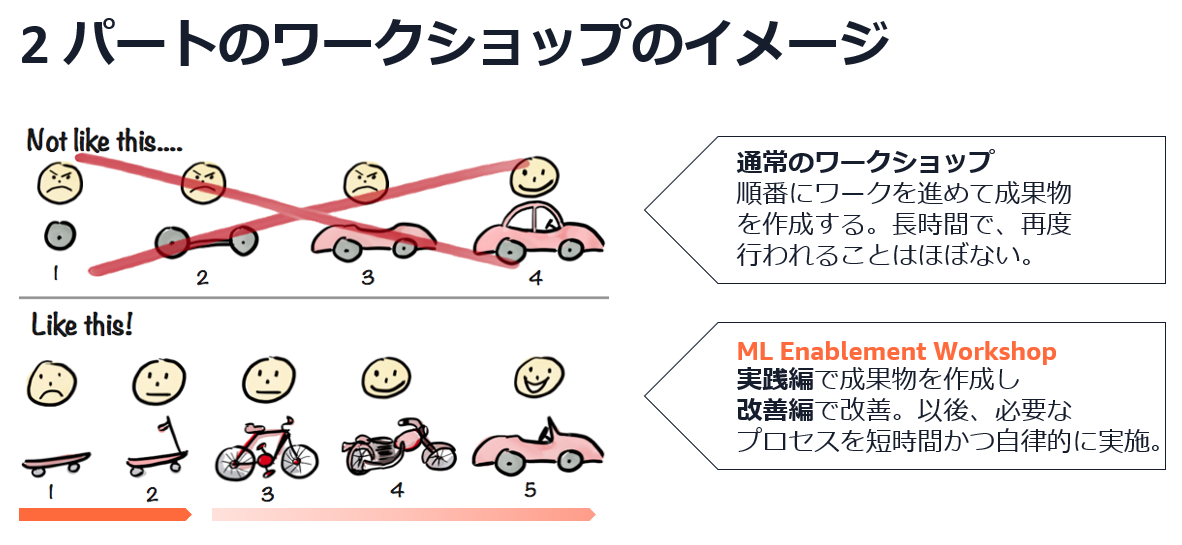
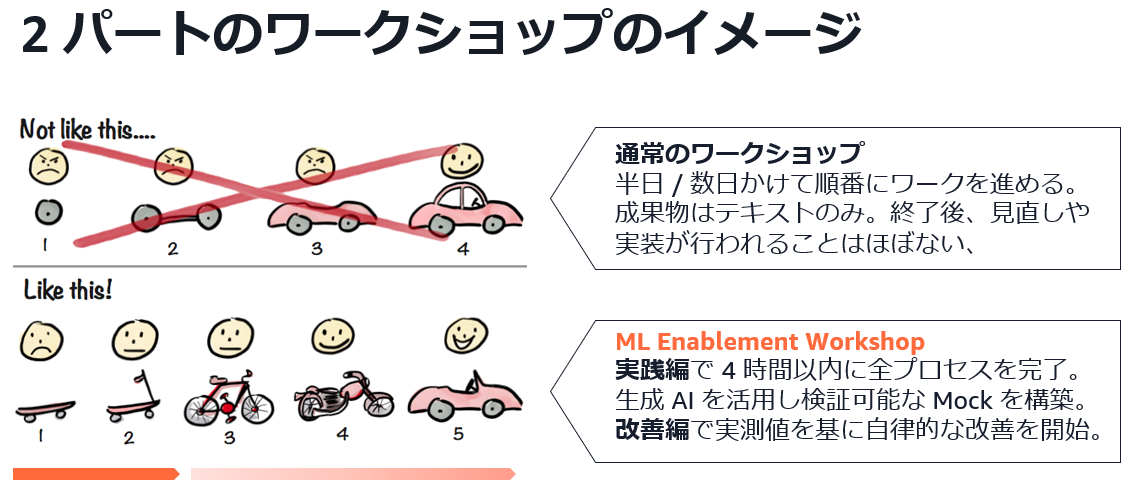
update Day0 for v3

Changed region(s): [[0.0, 0.2134, 1.0, 0.9756], [0.0, 0.0, 0.7757, 0.122], [0.9619, 0.6402, 0.9929, 0.6707]]

diff --git a/docs/organizer/day0.md b/docs/organizer/day0.md
@@ -1,0 +1,161 @@
+# ML Enablement Workshop Day0
+
+## 目次
+
+* ML Enablement Workshop のゴール
+* ワークショップの開催条件
+* ワークショップの参加者
+* ワークショップの進め方
+* 質疑応答
+* Next Step
+* 参考書籍
+
+## ML Enablement Workshop のゴール
+
+ワークショップのゴールは、 **生成 AI を含めた AI/ML 技術を、プロダクトの成長に繋げられるチームを組成することです**。そのために次の 4 つの目標の達成にチャレンジします。
+
+1. AI/ML による成長に欠かせないチームのメンバーを集める
+2. チームが目指すゴールと到達状況の計測方法を決める
+3. 生成 AI を活用し意思決定に必要な情報を迅速に集め計画を修正する方法を習得する
+4. 活動状況について経営層へのレポーティングを開始する
+
+AI/ML 特に生成 AI は進化の速い領域です。技術進化をプロダクトの成長につなげるには変更に柔軟であることが重要ですが、[日本の企業はスタートアップを含め変更に柔軟でない](https://note.com/piqcy/n/n66c93427d8f0)のが現状です。
+
+ ML Enablement Workshop の v3 以降では、**生成 AI を活用したモックの作成からフィードバック獲得までワークショップ期間内に実践し、改善サイクルを一周回したうえでチーム開発に入れる** ことが最大の特徴となっています。これにより、ユースケースの妥当性向上はもちろん、変更機会を活かす経験を得たチームで開発を進めることができます。
+
+![Workshop Overview](./assets/day0/ws_overview.png)
+
+* **実践編**で、 Amazon の顧客起点で考える Working Backwards の 5 つのプロセスを通しで行い、プロセスのアウトプット (プレスリリース) をもとに生成 AI でユーザー体験を得るための簡単なモックを構築します。時間は 3.5 時間程度で、参加人数によりある程度前後します
+   * 実践編は文字通り「プロセスの実践」が目的で、質の高いアウトプットを得ることは目的ではありません
+   * 「モック」は、ランディングページ、体験のための UI、クリック数等の反応をカウントする機能の最低 3 点を含むアプリケーションです。生成 AI を用い 10~30 分程度で構築する簡易なもので、改善編までのデータ収集だけの目的で使用する使い捨てのアプリケーションです。
+* **改善編**で、モックを使い得た定量・定性データをインプットに実践編で行ったプロセスを参加チームが自ら行い、アウトプットを改善します。その上で、今後のマイルストンを決めます。時間は 3 時間程度で、参加人数によりある程度前後します
+   * マイルストンを立てる後半 1 時間が必須で、前半 2 時間をどのプロセスにどれくらい充てるかは参加チーム自身が計画し、実行します。これは、ワークショップ後のチーム開発の予行演習を兼ねています
+
+ワークショップ終了後、進捗を定期的にスポンサーとなった経営層に報告しながら開発を進めて頂きます。これは、チームが組織横断で構成されている場合各組織の上長がチームを維持するためにチームの成果を知る必要があるためです。
+
+## ワークショップの開催条件
+
+ワークショップの開催条件は以下の 2 つです (AWS から提供する場合は追加条件があるため、担当にご確認ください ) 。
+
+1. AI/ML の取り組み及びワークショップ開催に経営層の支持がある
+2. 「AI/ML による成長に欠かせないチームのメンバー」が集められる
+
+これは、ゴールを達成するための前提条件でもあります。
+
+## ワークショップの参加者
+
+プロダクトマネージャー、開発者、データサイエンティストの参加を必須としています。生成 AI の場合、生成 AI の API やツール等の実用経験がある開発者がデータサイエンティストを兼任してもかまいません。
+
+> [!NOTE]
+> ワークショップを実践された方からは、次の職種も参加すると効果的であるとフィードバックを頂いています。追加の参加者についても柔軟に検討ください。  
+> ・UX デザイナー  
+> ・営業  
+> ・カスタマーサポート  
+> 
+
+主となる 3 役について ML Enablement Workshop が想定している職責の業務内容を説明します。会社により定義が異なっていることもあるので、参加者の方が実際に行っている業務と、本ワークショップでの定義が一致しているかを確認してください。
+
+* プロダクトマネージャー
+    * プロダクトのビジネス的な成功、そのためにロードマップを作成しどのような機能を開発するか方針を示し意思決定を行う職責の方です。
+        * 参考: [プロダクトマネジメントのすべて 事業戦略・IT開発・UXデザイン・マーケティングからチーム・組織運営まで](https://www.amazon.co.jp/%E3%83%97%E3%83%AD%E3%83%80%E3%82%AF%E3%83%88%E3%83%9E%E3%83%8D%E3%82%B8%E3%83%A1%E3%83%B3%E3%83%88%E3%81%AE%E3%81%99%E3%81%B9%E3%81%A6-%E4%BA%8B%E6%A5%AD%E6%88%A6%E7%95%A5%E3%83%BBIT%E9%96%8B%E7%99%BA%E3%83%BBUX%E3%83%87%E3%82%B6%E3%82%A4%E3%83%B3%E3%83%BB%E3%83%9E%E3%83%BC%E3%82%B1%E3%83%86%E3%82%A3%E3%83%B3%E3%82%B0%E3%81%8B%E3%82%89%E3%83%81%E3%83%BC%E3%83%A0%E3%83%BB%E7%B5%84%E7%B9%94%E9%81%8B%E5%96%B6%E3%81%BE%E3%81%A7-%E5%8F%8A%E5%B7%9D-%E5%8D%93%E4%B9%9F/dp/4798166391/ref=d_pd_vtp_sccl_3_1/356-1302783-3087709?pd_rd_w=kMJMk&content-id=amzn1.sym.cbb45385-7b99-44b7-a528-bff5ddaa153d&pf_rd_p=cbb45385-7b99-44b7-a528-bff5ddaa153d&pf_rd_r=VNVE3FYZYAE1GYH2438T&pd_rd_wg=OvK72&pd_rd_r=829f808a-3dc8-49ff-8f8b-2affc105dce0&pd_rd_i=4798166391&psc=1)
+    * プロダクトでの機械学習導入が顧客の課題、ビジネスの課題に直結しているか判断頂くために参加いただきます。
+* 開発者
+    * プロダクトの開発スケジュールやチームのリソース状況を把握している方です。
+    * 実行可能な計画をアウトプットするため、大まかな見積りや現在のスケジュールとの兼ね合いを判断いただくために参加いただきます。
+* データサイエンティスト
+    * 機械学習モデルの構築、またデータの分析を行う。
+    * 機械学習の専門家として、プロダクトで有用な用途や事例の提案、できること / できないことを判断頂くために参加いただきます。
+
+**ワークショップにはすべての役割が必要です。** [機械学習プロジェクトの失敗確率は 8 割を超える](https://note.com/piqcy/n/n9c9e97896596) と言われており、その要因としてチームの連携不足は理由の 1 つに挙げられています。
+
+**ワークショップ終了後もチームとしての連携が続きます**。ワークショップが表面的な会話になると、終わった後に「実はインパクトが低いと思っていた」「実はスケジュール的に無理だった」と後出しで計画が変わることがあります。異なるロールの方と本音で議論するために、必要に応じ事前に情報共有・懇親の場を設けることをお勧めします。
+
+ワークショップ実施者向けチェックリスト
+
+- [ ] : 参加が必須である 3 つの職責の方が参加メンバーに含まれている
+   * 含まれない場合、該当の職責を持つ方にも参加いただくよう依頼してください。会社によっては担当がいない場合や肩書の定義が異なることもあるため確認をお願いします。
+   * 3 つの職責に加え参加いただいたほうが良い方がいたら声がけをお願いします（例：カスタマーサポート / UX デザイナーな等）
+- [ ] : 参加者は顔見知りか ?
+   * 今回初めて顔を合わせる場合、お互いに意見が言いやすいよう事前に自己紹介や懇親を行う場を設けることを推奨します。 
+- [ ] : 実践編と改善編開催に向けた事務手続きをお願いします
+   - [ ] : 日程の決定
+   - [ ] : 会場の決定 ( オンライン / オフライン )
+   - [ ] : 設備の確認 ( ホワイトボード / ペン / ポストイット )
+   - [ ] : 参加者同士での連絡方法の確立 (Slack Channel など )
+
+※ ワークショップの開催はオフラインを推奨しています。
+
+## ワークショップの進め方
+
+今、このドキュメントを読んでいるのは Day0 のフェーズです。 Day0 の後に「実施編」「改善編」の 2 パートを実施しワークショップは終了します。 Day0 は実際参加する方に **「なぜ集められたのか」「ワークショップでどのような役割が期待されているのか」** を事前に説明し合意を得ることが目的です。以後のパートでは時系列に沿い各職責が何を行うのかを説明します。
+
+### ワークショップ前
+
+ワークショップ開催前に、各職責には事前ワークがあります。実践編では「どんなプロダクトのどんな顧客をターゲットにするか」は決まっていることが前提でスタートするので、プロダクトマネージャーは決定と共有をお願いします。これは、スコープを区切ることで実験しやすい範囲で活動を開始するために不可欠です。
+
+![Workshop Preparation](./assets/day0/ws_preparation.png)
+※「顧客」は契約当事者で、例えば子供向け教材の場合親が顧客で子供はユーザーです
+
+ワークショップにおいて、ユースケースは自分で考えるよりも成功事例を借りる形で考えます。ゼロから考えるよりも、過去の成功事例を組み合わせる方がよい解決策になるためです ( 裏付けが知りたい方は [THINK BIGGER 「最高の発想」を生む方法：コロンビア大学ビジネススクール特別講義](https://amzn.asia/d/iUPZDY5) を参照してみてください ) 。そのため、事例の収集が肝になり、この役割をデータサイエンティストの方に担って頂きます。事例がプロダクトの成長にひも付くものになっているかは、事前にプロダクトマネージャーの方と確認いただくとよいです。
+
+- [ ] : ワークショップで扱うプロダクトと対象顧客 ( ※ ) が決まっている
+- [ ] : 改善編までの間に 1~3 時間の振り返りの場が確保されている
+- [ ] : 可能な限り、データがすぐに参照できる環境が整備されている
+- [ ] : プロダクトの成長に繋がる事例が 3~4 つ収集され **[評価用ワークシート](https://docs.google.com/spreadsheets/d/1MP9cSSDeQevrHNgeXmdA90DiiiwhUIL83eFQzX9PQ0k/edit?gid=149988163#gid=149988163) の A~C 列を埋める形でまとめられている**
+
+
+### ワークショップ中 : 実践編
+
+ワークショップの実践編は Amazon のプロダクト開発プロセス、 Working Backwards に沿い時間内を意識してワークを進めます。プロダクトマネージャーの宿題は Listen 、データサイエンティストの宿題は Invent 、開発者の宿題はデータが必要な随所で使います。
+
+![workshop](./assets/day0/ws_practice.png)
+
+実践編の目的は「得られた情報に基づき計画を修正する方法を習得」することなので、次の 3 点を意識してください。
+
+1. **とりあえず決める**: 改善編が控えているので、実践編の意思決定は「とりあえず」で構いません。時間が来たらサイコロでもよいので決めましょう。
+2. **知らない時は仮定する**: 改善編が控えているので十分な情報がない場合は仮定して先に進みましょう。仮定した情報は確認が必要なので、事実・実績の情報とは区別しましょう。
+3. **出し惜しみせず取り組む** : 本ワークショップで決めた計画は定期的に経営層へ進捗を報告して頂きます。会社の期待がかかるプロジェクトに抜擢されたメンバーとして、知識・能力を振るってください。
+
+- [ ] : Amazon の Working Backwards のプロセスを理解した
+
+
+### 実践編後・改善編前
+
+実践編終了後、振り返りを行ってください。この時間は自分たちの意思決定にはどの Working Backwards のどのプロセスが不十分か特定し、改善編で補完する計画を立てるために必要です。また、ポストイットなどでのアウトプットを電子化しておくことも必要です。
+
+改善編は 2 時間が補完の時間、 1 時間が今後のマイルストンを立てるための時間になります。前半 2 時間の使い方、進行は参加チームにお任せします。この 2 時間は、ワークショップ終了後実際に活動を始めてみて修正が感じた時の対応の予行演習でもあります。その点で、ワークショップ終了後のリードを担う方を進行担当に任命してください。
+
+- [ ] : 改善編 2 時間の時間配分と進行担当が決まっている
+- [ ] : 不足していたデータや議論などが特定され、改善編開催までに準備するためにそれぞれに作業が割り振られている
+- [ ] : 実施編のアウトプットが電子化されており、改善編で使えるようになっている。
+
+### ワークショップ中 : 改善編
+
+改善編では事前に立てたプランに沿い進行頂きます。後半 1 時間で今後のマイルストンを立て、ワークショップは終了です。
+
+- [ ] : 各自の Todo が明確になっている
+- [ ] : ワークショップ終了後の定例進捗会議がスケジュールされている
+- [ ] : 初回の経営層への報告日が決まりスケジュールされている
+
+### ワークショップ後
+
+ワークショップ後は、マイルストンの達成に向け決めた活動を実施します。活動を始めると情報がどんどんアップデートされるため、修正する必要があると感じたら改善編の要領で必要なプロセスを再度実施してください。
+
+## 質疑応答
+
+ワークショップの目的、職責の不明点などについて質問をください。
+
+## Next Step
+
+ワークショップ前の準備の開始をお願いします。
+
+## 参考書籍
+
+ワークショップを推進するにあたり、必要な事前インプットがないか確認します。インプットに有用な書籍やリソースを紹介します。
+
+- [ ] プロダクトマネージャーの方はビジネスモデルの作成やカスタマージャーニーの作成の経験があるか ?
+    * あまりない場合、プロダクトマネージャーとしてビジネスモデルの作成や顧客体験の可視化を主導できるように、下記の推薦図書で事前のインプットを行ってください。
+    * [プロダクトマネジメントのすべて 事業戦略・IT開発・UXデザイン・マーケティングからチーム・組織運営まで](https://www.amazon.co.jp/%E3%83%97%E3%83%AD%E3%83%80%E3%82%AF%E3%83%88%E3%83%9E%E3%83%8D%E3%82%B8%E3%83%A1%E3%83%B3%E3%83%88%E3%81%AE%E3%81%99%E3%81%B9%E3%81%A6-%E4%BA%8B%E6%A5%AD%E6%88%A6%E7%95%A5%E3%83%BBIT%E9%96%8B%E7%99%BA%E3%83%BBUX%E3%83%87%E3%82%B6%E3%82%A4%E3%83%B3%E3%83%BB%E3%83%9E%E3%83%BC%E3%82%B1%E3%83%86%E3%82%A3%E3%83%B3%E3%82%B0%E3%81%8B%E3%82%89%E3%83%81%E3%83%BC%E3%83%A0%E3%83%BB%E7%B5%84%E7%B9%94%E9%81%8B%E5%96%B6%E3%81%BE%E3%81%A7-%E5%8F%8A%E5%B7%9D-%E5%8D%93%E4%B9%9F/dp/4798166391) : プロダクトマネジメントについて網羅的に紹介されている書籍です。Part1 / Part2 の箇所が目を通していただければ幸いです (書籍内ではビジネスモデルキャンバスに近いリーンキャンバスを使用しています) 。Part1: プロダクトの成功 (27 ページ)、Part2: プロダクトを育てる (131 ページ) まで読んでいただければ。
+    * (Optional) [ビジネスモデルの教科書: 経営戦略を見る目と考える力を養う](https://www.amazon.co.jp/%E3%83%93%E3%82%B8%E3%83%8D%E3%82%B9%E3%83%A2%E3%83%87%E3%83%AB%E3%81%AE%E6%95%99%E7%A7%91%E6%9B%B8-%E7%B5%8C%E5%96%B6%E6%88%A6%E7%95%A5%E3%82%92%E8%A6%8B%E3%82%8B%E7%9B%AE%E3%81%A8%E8%80%83%E3%81%88%E3%82%8B%E5%8A%9B%E3%82%92%E9%A4%8A%E3%81%86-%E4%BB%8A%E6%9E%9D-%E6%98%8C%E5%AE%8F/dp/4492533435) : ビジネスモデルについて様々な事例を知りたい場合、副読書的に参照いただければと思います。
+    * (Optional) [ジョブ理論 イノベーションを予測可能にする消費のメカニズム](https://www.amazon.co.jp/%E3%82%B8%E3%83%A7%E3%83%96%E7%90%86%E8%AB%96-%E3%82%A4%E3%83%8E%E3%83%99%E3%83%BC%E3%82%B7%E3%83%A7%E3%83%B3%E3%82%92%E4%BA%88%E6%B8%AC%E5%8F%AF%E8%83%BD%E3%81%AB%E3%81%99%E3%82%8B%E6%B6%88%E8%B2%BB%E3%81%AE%E3%83%A1%E3%82%AB%E3%83%8B%E3%82%BA%E3%83%A0-%E3%83%93%E3%82%B8%E3%83%8D%E3%82%B9%E3%83%AA%E3%83%BC%E3%83%80%E3%83%BC1%E4%B8%87%E4%BA%BA%E3%81%8C%E9%81%B8%E3%81%B6%E3%83%99%E3%82%B9%E3%83%88%E3%83%93%E3%82%B8%E3%83%8D%E3%82%B9%E6%9B%B8%E3%83%88%E3%83%83%E3%83%97%E3%83%9D%E3%82%A4%E3%83%B3%E3%83%88%E5%A4%A7%E8%B3%9E%E7%AC%AC2%E4%BD%8D-%E3%83%8F%E3%83%BC%E3%83%91%E3%83%BC%E3%82%B3%E3%83%AA%E3%83%B3%E3%82%BA%E3%83%BB%E3%83%8E%E3%83%B3%E3%83%95%E3%82%A3%E3%82%AF%E3%82%B7%E3%83%A7%E3%83%B3-%E3%82%AF%E3%83%AA%E3%82%B9%E3%83%86%E3%83%B3%E3%82%BB%E3%83%B3/dp/4596551227) / [ユーザーストーリーマッピング](https://www.amazon.co.jp/%E3%83%A6%E3%83%BC%E3%82%B6%E3%83%BC%E3%82%B9%E3%83%88%E3%83%BC%E3%83%AA%E3%83%BC%E3%83%9E%E3%83%83%E3%83%94%E3%83%B3%E3%82%B0-Jeff-Patton/dp/4873117321) : カスタマージャーニー / ユーザーストーリの作り方についてより詳しく知りたい場合、副読書的に参照いただければと思います。
+い。
